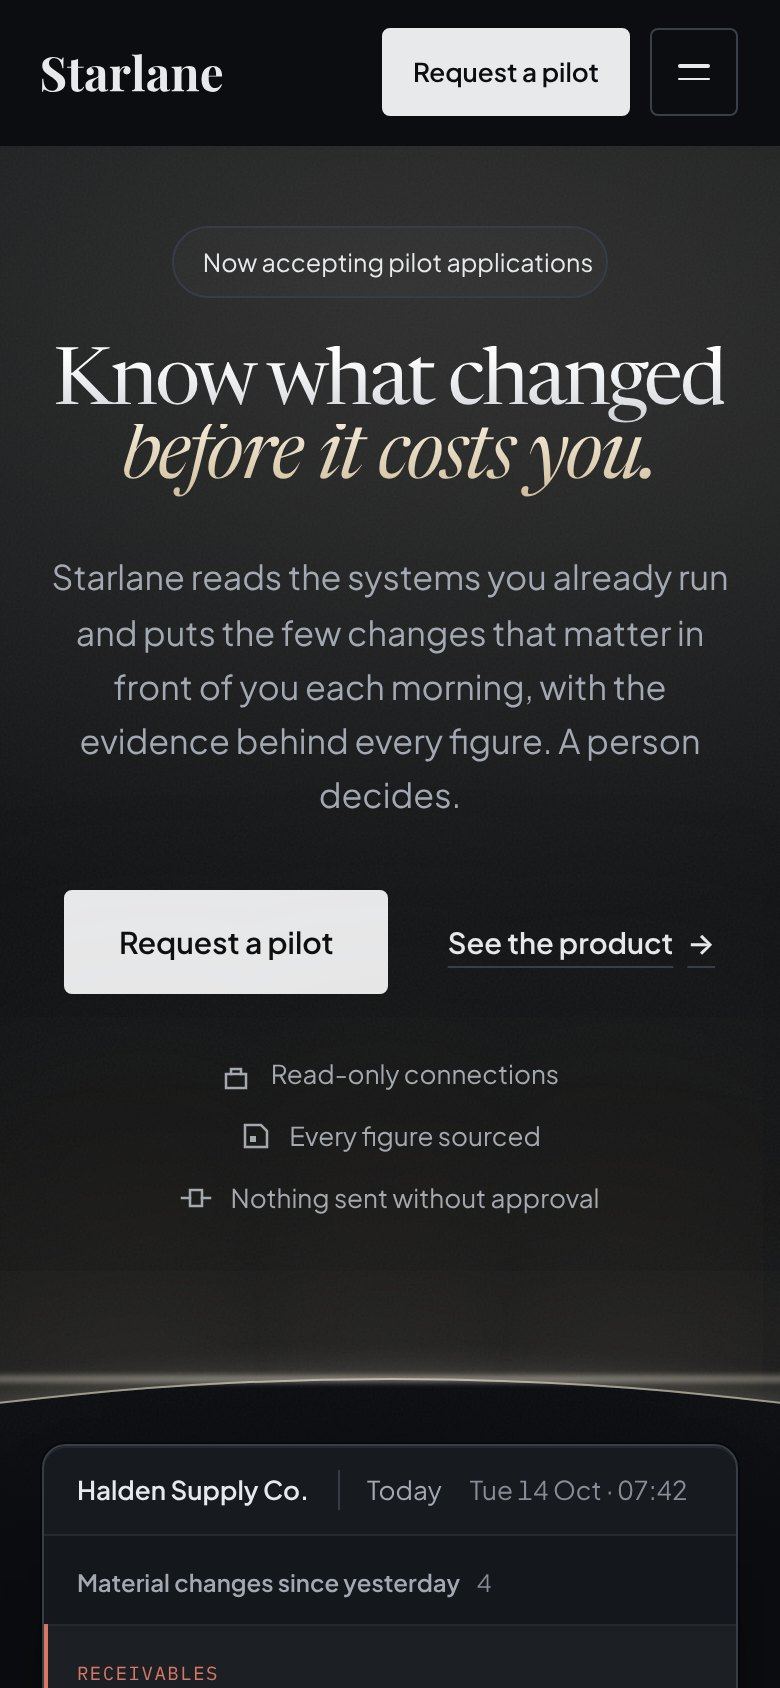
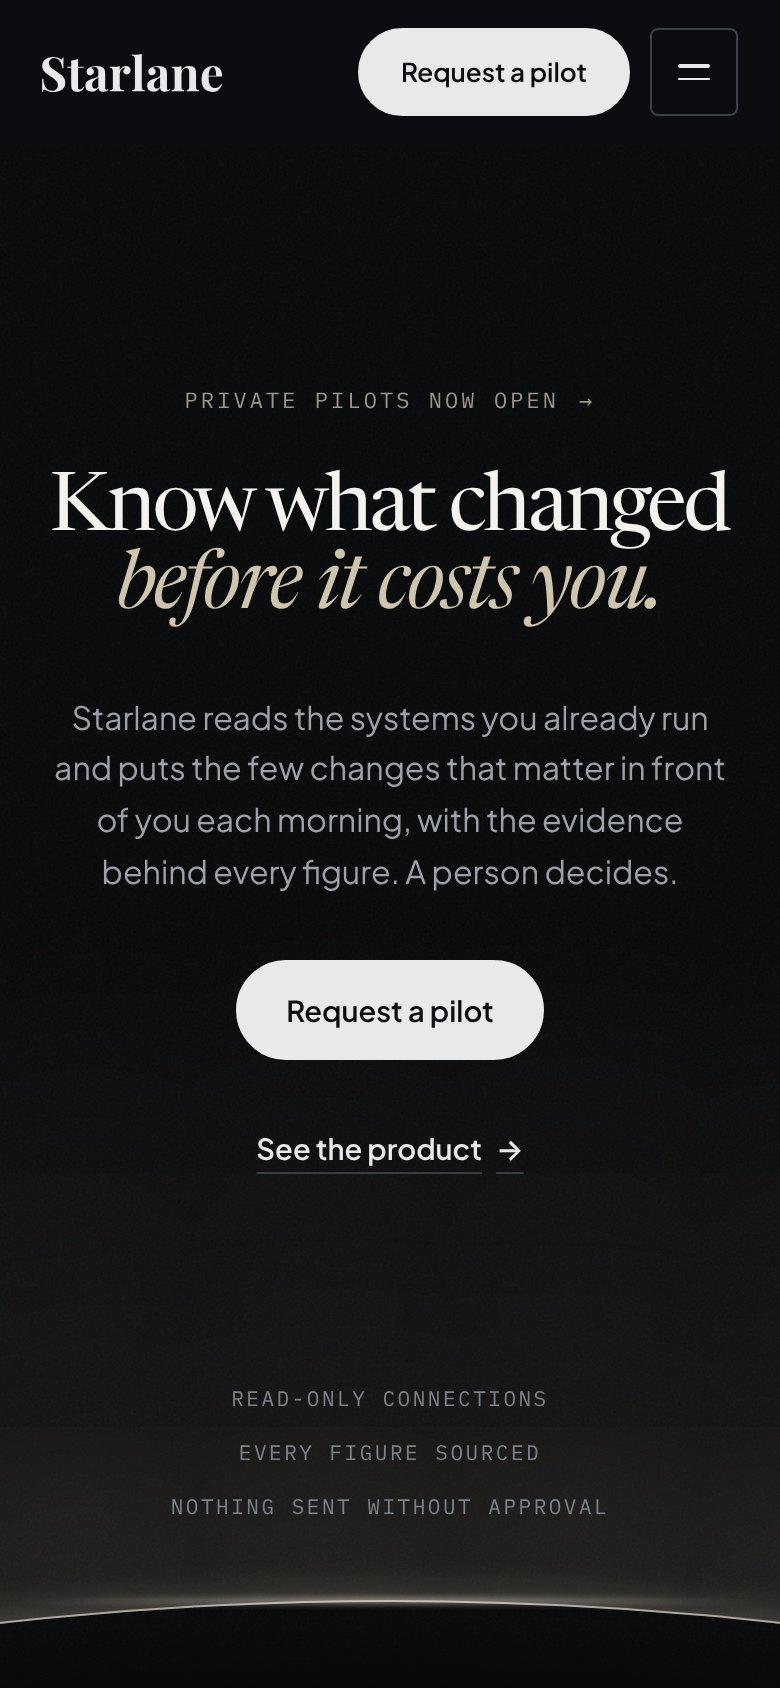
Cinematic homepage hero
Black field, a single large serif claim with a warm italic, mono kicker,
pill CTAs, a mono facts row and a lit horizon at the fold that the product
console rises over on scroll. CSS-only dawn animation under
prefers-reduced-motion: no-preference; no text is hidden behind JS.

Claude-Session: https://claude.ai/code/session_01TRYDuk83zkomBk6o8zRnck

diff --git a/app/site.css b/app/site.css
@@ -73,7 +73,7 @@
 .sl-start .hx-c .hx-stage > .f-wrap { position: relative; z-index: 1; }
 .sl-start .hx-c .hx-stage { margin-top: clamp(112px, 10vw, 152px); }
 .sl-start[data-motion="on"] .hx-horizon { transition: opacity 1.6s var(--ease) .2s, transform 1.8s var(--ease) .2s; }
-.sl-start[data-motion="on"] .hx-c:not(:has(.hc.is-in)) .hx-horizon { opacity: 0; transform: translateX(-50%) translateY(60px); }
+.sl-start[data-motion="on"] .hx-c:not(.hx-cine):not(:has(.hc.is-in)) .hx-horizon { opacity: 0; transform: translateX(-50%) translateY(60px); }
 
 /* A sparse field of points above the claim: the name, said quietly. Static,
    decorative, and faded out before it reaches the copy's edges. */
@@ -382,3 +382,53 @@
 .sl-start .lg-body a:hover { text-decoration-color: currentColor; }
 .sl-start .lg-notice { margin: 8px 0 0; padding: 20px 22px; border: 1px solid var(--line); background: var(--panel); font-size: 15px; line-height: 1.75; color: var(--fg2); }
 .sl-start .lg-note { margin-top: 28px !important; font-size: 13px !important; color: var(--fg3) !important; }
+
+/* ── Cinematic hero (.hx-cine) ─────────────────────────────────────
+ * The first screen holds only the claim: a near-black field, a faint sky,
+ * and a lit horizon at the fold. No product, no chrome, no icons. The
+ * product rises over the horizon on the first scroll. Overrides .hx-c.
+ */
+.sl-start .hx-cine { --fold: calc(100svh - 76px); padding: 0 0 clamp(56px, 6vw, 88px); background: #07080A; }
+.sl-start .hx-cine::after { display: none; }
+.sl-start .hx-cine .hx-top { position: relative; z-index: 1; min-height: calc(var(--fold) - 132px); justify-content: center; padding-top: 24px; }
+.sl-start .hx-cine .hx-kicker { display: inline-flex; align-items: center; gap: 10px; font-family: var(--sl-mono); font-size: 11px; letter-spacing: .14em; text-transform: uppercase; color: #9B968C; transition: color .2s var(--ease); }
+.sl-start .hx-cine .hx-kicker span { transition: transform .2s var(--ease); }
+.sl-start .hx-cine .hx-kicker:hover { color: #E8E4DC; }
+.sl-start .hx-cine .hx-kicker:hover span { transform: translateX(3px); }
+.sl-start .hx-cine .hx-h { margin-top: clamp(28px, 3vw, 40px); font-size: clamp(54px, 8.6vw, 140px); line-height: .9; letter-spacing: -0.042em !important; font-weight: 400; }
+.sl-start .hx-cine .hx-h > span { background: none; -webkit-background-clip: border-box; background-clip: border-box; color: #F4F2EE; padding: 0; }
+.sl-start .hx-cine .hx-h em { background: none; -webkit-background-clip: border-box; background-clip: border-box; color: #CFC4AE; padding: 0 .04em .06em; }
+.sl-start .hx-cine .hx-lead { margin-top: clamp(28px, 2.8vw, 40px); max-width: 33rem; font-size: clamp(16.5px, 1.25vw, 19px); line-height: 1.6; color: #9DA2A9; }
+.sl-start .hx-cine .hx-actions { margin-top: clamp(32px, 3vw, 44px); gap: 12px 32px; }
+.sl-start .hx-cine .sl-btn-lg { height: 50px; padding: 0 24px; border-radius: 999px; font-size: 14.5px; }
+
+/* The promises, as a quiet line resting on the horizon. */
+.sl-start .hx-cine .hx-base { position: relative; z-index: 1; height: 132px; display: flex; align-items: flex-start; justify-content: center; }
+.sl-start .hx-cine .hx-facts { display: flex; flex-wrap: wrap; justify-content: center; gap: 8px 0; list-style: none; margin: 0; padding: 0; border: 0; max-width: none; }
+.sl-start .hx-cine .hx-facts li { font-family: var(--sl-mono); font-size: 10.5px; letter-spacing: .12em; text-transform: uppercase; color: #7D8189; white-space: nowrap; }
+.sl-start .hx-cine .hx-facts li + li::before { content: "·"; margin: 0 16px; color: #4A4E55; }
+
+/* Horizon: crest just above the fold, rim-lit, dark planet below. */
+.sl-start .hx-cine .hx-horizon { top: calc(var(--fold) - 64px); width: max(3600px, 250vw); background: radial-gradient(closest-side, #07080A 97%, transparent 100%);
+  box-shadow: 0 -1px 0 0 rgb(244 236 220 / .62), 0 -2px 22px 0 rgb(241 231 211 / .24), 0 -60px 160px 20px rgb(241 231 211 / .09), 0 -220px 380px 60px rgb(190 168 128 / .06); }
+.sl-start .hx-cine .hx-horizon::before { width: 11%; }
+.sl-start .sl-nav-dark .sl-btn.sl-btn-solid { border-radius: 999px; padding: 0 20px; }
+.sl-start .hx-cine .hx-stars { height: var(--fold); opacity: .55; -webkit-mask-image: linear-gradient(180deg, #000 0%, #000 55%, transparent 92%); mask-image: linear-gradient(180deg, #000 0%, #000 55%, transparent 92%); }
+.sl-start .hx-cine .hx-stage { position: relative; z-index: 1; margin-top: clamp(24px, 3vw, 48px); }
+/* Dawn: the rim light comes up once on load. Pure CSS, so it starts with the
+   first paint and never hides the claim. */
+@media (prefers-reduced-motion: no-preference) {
+  .sl-start .hx-cine .hx-horizon { animation: hx-dawn 2.4s cubic-bezier(.2, .7, .2, 1) .1s both; }
+}
+@keyframes hx-dawn { from { opacity: 0; transform: translateX(-50%) translateY(36px); } to { opacity: 1; transform: translateX(-50%); } }
+
+@media (max-width: 760px) {
+  .sl-start .hx-cine .hx-top { min-height: calc(var(--fold) - 150px); }
+  .sl-start .hx-cine .hx-h { font-size: clamp(38px, 10.4vw, 64px); line-height: .96; }
+  .sl-start .hx-cine .hx-lead { font-size: 16px; }
+  .sl-start .hx-cine .hx-base { height: 150px; }
+  .sl-start .hx-cine .hx-facts { flex-direction: column; align-items: center; gap: 10px; }
+  .sl-start .hx-cine .hx-facts li + li::before { display: none; }
+  .sl-start .hx-cine .hx-horizon { top: calc(var(--fold) - 40px); width: 900vw; }
+  .sl-start .hx-cine .hx-actions { flex-direction: column; gap: 22px; }
+}

diff --git a/app/page.tsx b/app/page.tsx
@@ -87,10 +87,11 @@ export default function LandingPage() {
     <SiteShell>
       <JsonLd data={STRUCTURED} />
       {/* 01 · Hero */}
-      <header className="f f-dark hx hx-c">
+      <header className="f f-dark hx hx-c hx-cine">
         <div className="hx-stars" aria-hidden />
+        <div className="hx-horizon" aria-hidden />
         <div className="f-wrap hx-top">
-          <Link href="/pricing" className="hx-pill">Now accepting pilot applications<span>How a pilot works<b aria-hidden>→</b></span></Link>
+          <Link href="/pricing" className="hx-kicker">Private pilots now open<span aria-hidden>→</span></Link>
           <h1 className="f-display hx-h"><span>Know what changed</span> <em>before it costs you.</em></h1>
           <p className="f-lead hx-lead">
             Starlane reads the systems you already run and puts the few changes that matter in front of you each
@@ -100,14 +101,15 @@ export default function LandingPage() {
             <Link href="/access" className="sl-btn sl-btn-solid sl-btn-lg">Request a pilot</Link>
             <Link href="/platform" className="f-link">See the product<span aria-hidden>→</span></Link>
           </div>
-          <ul className="f-facts hx-facts">
-            <li><Glyph name="readonly" />Read-only connections</li>
-            <li><Glyph name="evidence" />Every figure sourced</li>
-            <li><Glyph name="gate" />Nothing sent without approval</li>
+        </div>
+        <div className="f-wrap hx-base">
+          <ul className="hx-facts">
+            <li>Read-only connections</li>
+            <li>Every figure sourced</li>
+            <li>Nothing sent without approval</li>
           </ul>
         </div>
         <div className="hx-stage">
-          <div className="hx-horizon" aria-hidden />
           <div className="f-wrap"><HeroConsole /></div>
         </div>
         <div className="f-wrap hx-foot"><p className="f-cap">{CAPTION}</p></div>
